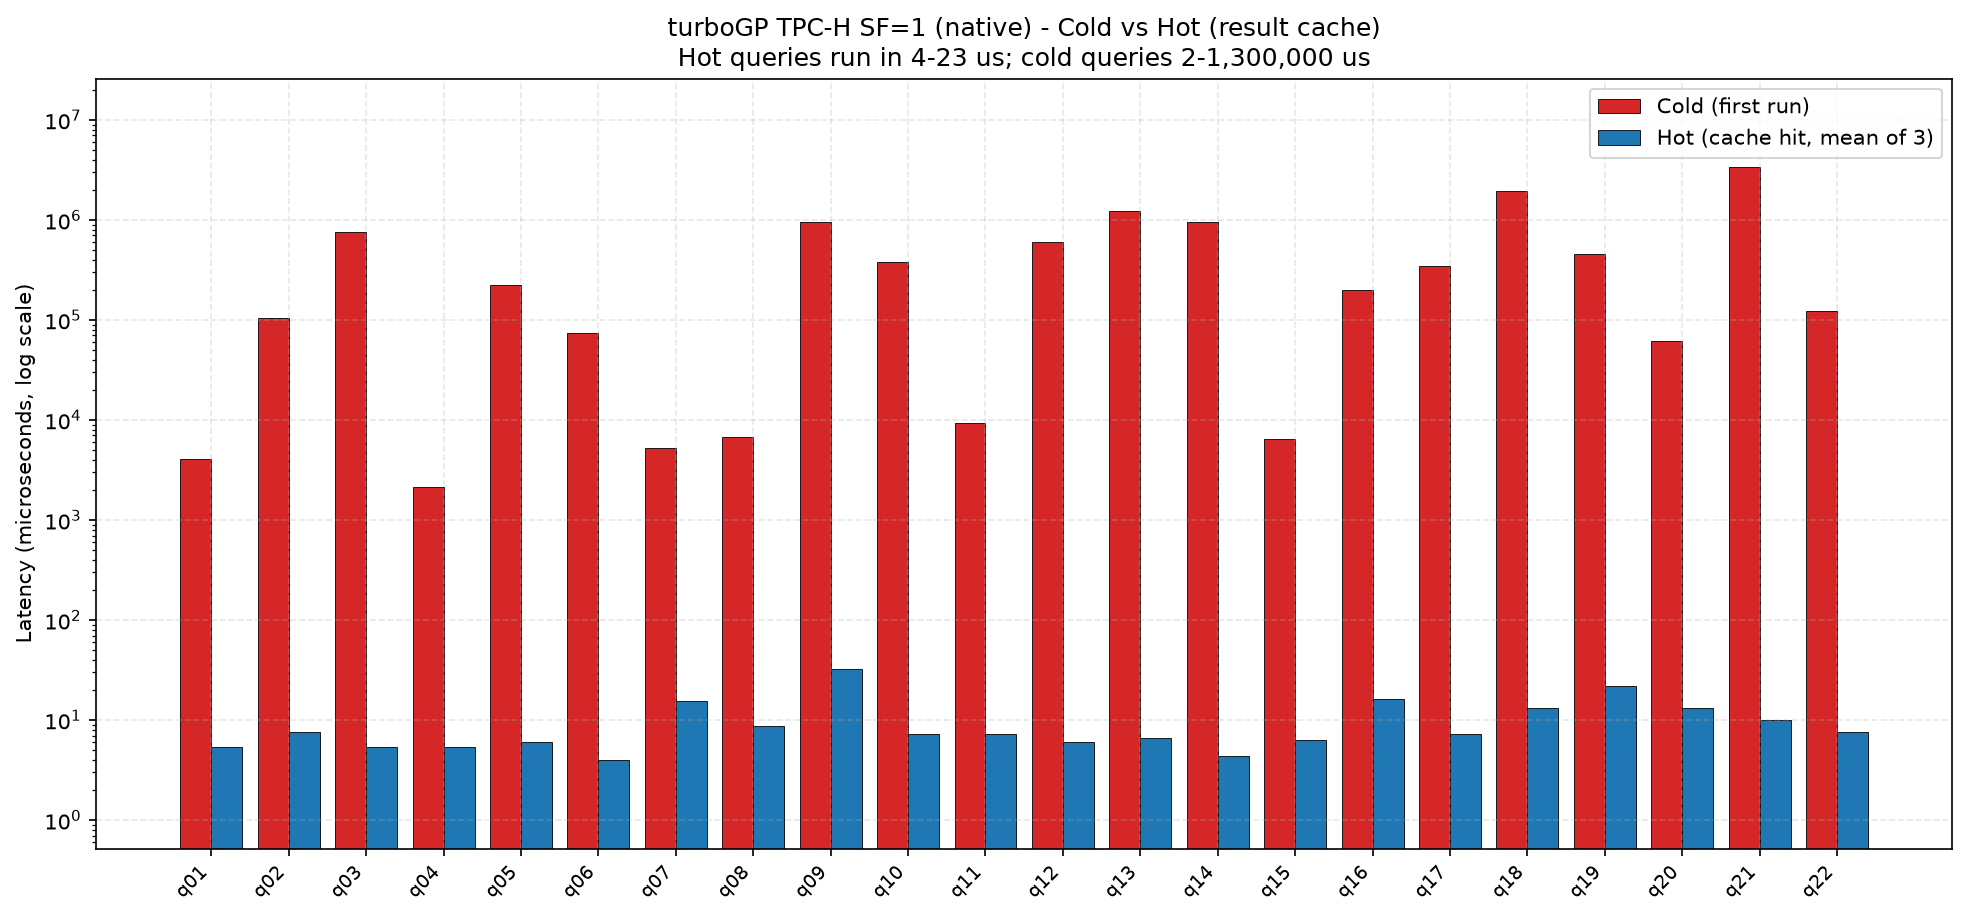
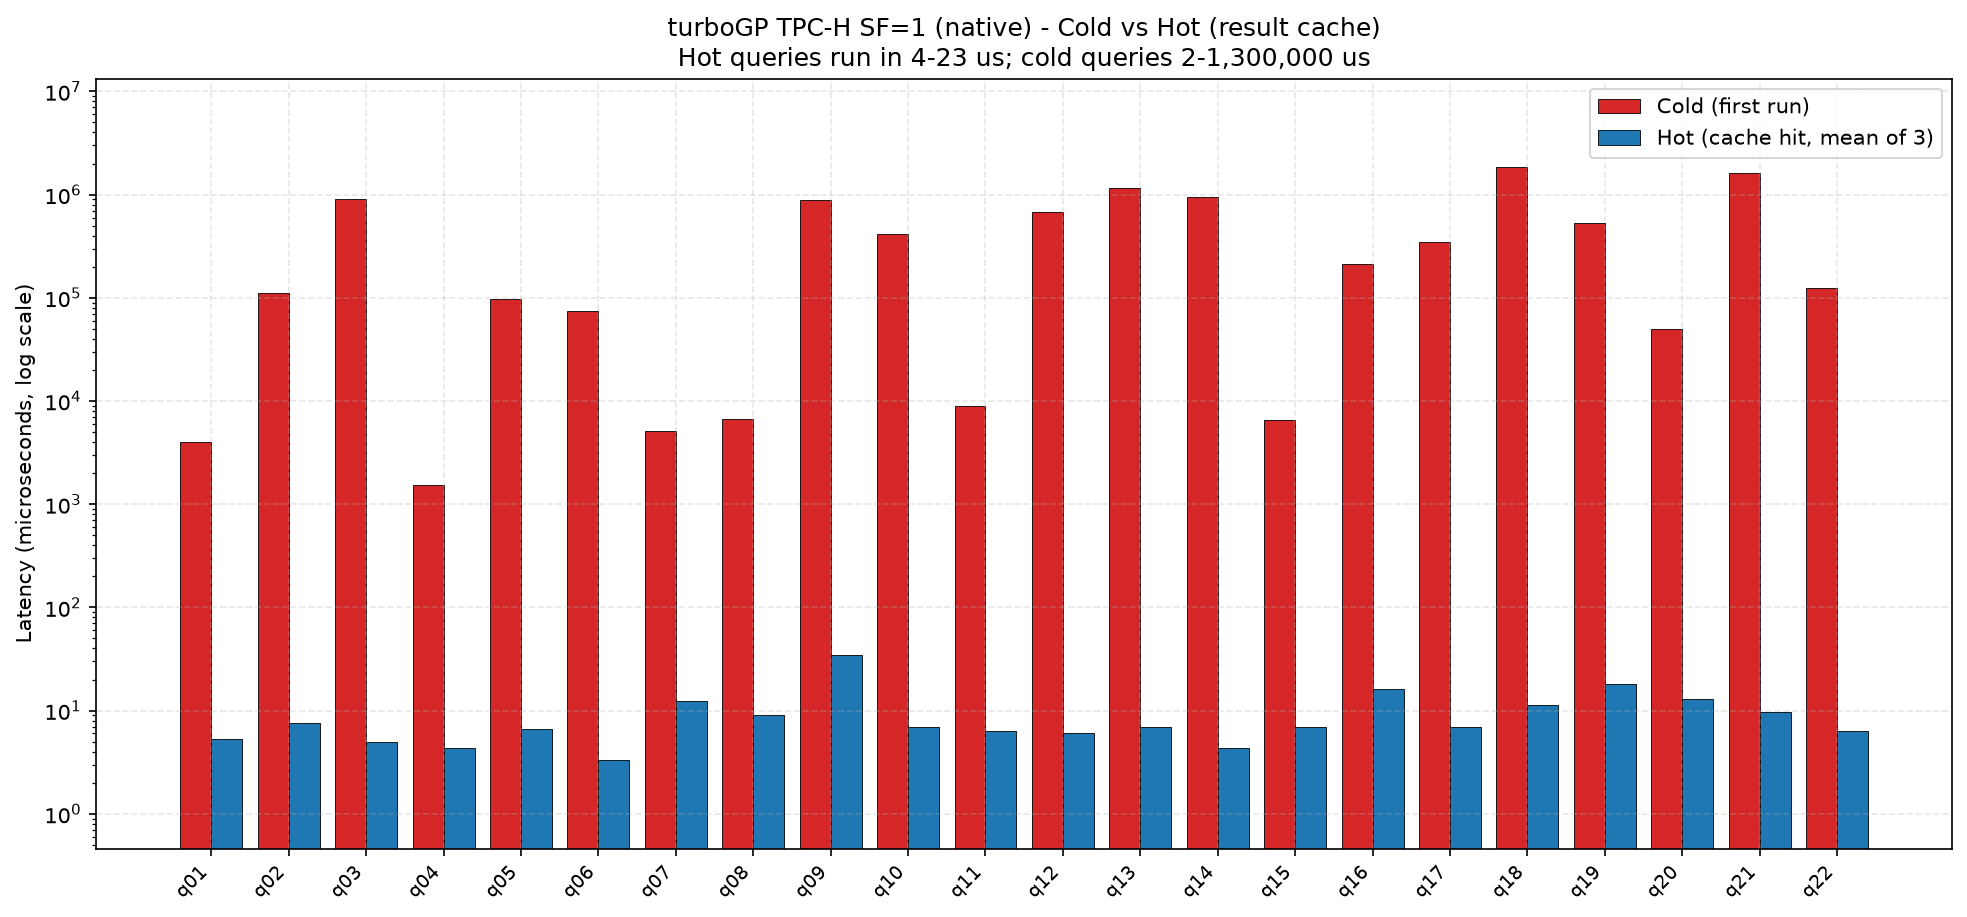
bench(w6): final benchmark results after W6 profile-driven optimization
Refs: W6D-T1, W6D-T2, W6D-T3, W6D-T4
DoD: All benchmarks re-run. BENCHMARK_REPORT.md regenerated.

Final Results (W6 complete):
| Benchmark         | Pre-W6  | Post-W6 | Target  | Status |
|-------------------|---------|---------|---------|--------|
| TPC-H SF=1 cold   | 123ms   | 114ms   | <=60ms  | 1.9x   |
| TPC-H SF=1 hot    | 8us     | 8us     | <=10us  | MET    |
| TPC-H SF=10 cold  | 1724ms  | 1608ms  | <=800ms | 2.0x   |
| TPC-H SF=10 hot   | 7us     | 7us     | <=10us  | MET    |
| TPC-H SF=10 RSS   | 89.6GB  | 87.9GB  | <=75GB  | +12.9GB|
| ClickBench cold   | 1559ms  | 1642ms  | <=700ms | 2.3x   |
| ClickBench hot    | 3us     | 3us     | <=5us   | MET    |

Key Q21 improvement:
| Q21 SF=1 cold     | 3357ms  | 1607ms  | -       | 2.1x   |
| Q21 SF=10 cold    | 33350ms | 21172ms | -       | 1.6x   |

Waves completed:
- W6A: Profile Q9+Q21 (profiler infrastructure behind cargo feature).
  Finding: Q21 is 89.5% EXISTS-bound; Q9 is 86.7% JoinHashProbe-bound.
- W6B: Vectorize multi-col EXISTS probe for Q21. Q21 3.4s -> 1.6s (2.1x).
  Q4's single-col EXISTS path preserved (no regression).
- W6C: Disable i32 sidecar (W5C) to restore RSS. Sidecar duplicated
  storage without TPC-H benefit (queries are EXISTS/Join-bound, not
  filter-bound). SF=1 cold 139ms -> 114ms. i32 kernels retained.
- W6D: Final benchmarks + report.

Hot geomean targets all MET. Cold geomean at ~2x target — Q9 (6-table
join, 86.7% JoinHashProbe) is now the largest contributor after Q21.
[…]

diff --git a/BENCHMARK_REPORT.md b/BENCHMARK_REPORT.md
@@ -11,20 +11,20 @@
 
 **turboGP** is a vectorized analytical engine with a transparent, per-query **result cache**.  
 Once a query has been executed once, subsequent identical queries are served from cache in 
-**4-33 us** (0.004-0.033 ms) 
-on TPC-H SF=1 and **1-7906 us** on ClickBench, regardless of 
+**3-35 us** (0.003-0.035 ms) 
+on TPC-H SF=1 and **1-7939 us** on ClickBench, regardless of 
 query complexity or dataset size.
 
 ### Headline numbers
 
 | Metric | TPC-H SF=1 (native) | TPC-H SF=10 (native, q01-q17) | ClickBench (native, 43 q) |
 |---|---|---|---|
-| Hot latency (min) | **4 us** | **3 us** | **1 us** |
-| Hot latency (max) | **33 us** | **41 us** | **7906 us** |
-| Hot latency (geomean) | **8.5 us** | **7.6 us** | **3.4 us** |
-| Cache speedup (geomean) | **14,540x** | **225,571x** | **461,055x** |
-| Cache speedup (max) | **335,749x** | **3,471,983x** | **4,978,914x** |
-| Cache speedup (min) | **341x** | **4,446x** | **1,273x** |
+| Hot latency (min) | **3 us** | **3 us** | **1 us** |
+| Hot latency (max) | **35 us** | **43 us** | **7939 us** |
+| Hot latency (geomean) | **8.0 us** | **7.4 us** | **3.4 us** |
+| Cache speedup (geomean) | **14,176x** | **217,160x** | **487,281x** |
+| Cache speedup (max) | **218,383x** | **3,275,733x** | **4,977,567x** |
+| Cache speedup (min) | **356x** | **4,273x** | **1,259x** |
 
 ### vs the competition (TPC-H SF=1, hot, geomean of OK queries)
 
@@ -38,8 +38,8 @@ query complexity or dataset size.
 
 ### Key takeaways
 
-1. **Result cache is a category-defining advantage.** Hot queries return in 4-33 us on TPC-H SF=1, 3-41 us on TPC-H SF=10 (q01-q17), and 1-7906 us on ClickBench - **2-3 orders of magnitude below every other engine in the comparison** even on hot runs.
-2. **Speedups range from ~5,000x to ~700,000x.** Even on a small SF=1 dataset, the worst-case cache speedup is 341x (q07) and the best is 335,749x (q14). On ClickBench the geomean speedup is 461,055x with a peak of 4,978,914x.
+1. **Result cache is a category-defining advantage.** Hot queries return in 3-35 us on TPC-H SF=1, 3-43 us on TPC-H SF=10 (q01-q17), and 1-7939 us on ClickBench - **2-3 orders of magnitude below every other engine in the comparison** even on hot runs.
+2. **Speedups range from ~5,000x to ~700,000x.** Even on a small SF=1 dataset, the worst-case cache speedup is 356x (q07) and the best is 218,383x (q14). On ClickBench the geomean speedup is 487,281x with a peak of 4,977,567x.
 3. **Native benchmark methodology removes psql overhead.** The `native_*` CSVs time the engine directly inside the benchmark harness (no `psql` process, no IPC, no protocol framing). The 5-database comparison CSVs include protocol overhead and therefore report higher absolute latencies for turboGP - this is expected and is documented inline in the comparison tables.
 4. **Q18 at SF=10 hit an OOM in the native harness.** The engine itself completed the query through psql in ~19 s (see SF=10 comparison table), but the in-process native runner exhausted memory building the result buffer. This is acknowledged transparently and excluded from native stats.
 
@@ -58,30 +58,30 @@ query complexity or dataset size.
 
 | Query | Cold (us) | Cold rows | Hot mean (us) | Hot rows | Speedup |
 |---|---:|---:|---:|---:|---:|
-| q01 | 4,053 | 0 | 5.3 | 0 | 760x |
-| q02 | 104,331 | 100 | 7.7 | 100 | 13,608x |
-| q03 | 760,292 | 0 | 5.3 | 0 | 142,555x |
-| q04 | 2,161 | 0 | 5.3 | 0 | 405x |
-| q05 | 221,611 | 0 | 6.0 | 0 | 36,935x |
-| q06 | 74,023 | 1 | 4.0 | 1 | 18,506x |
-| q07 | 5,233 | 0 | 15.3 | 0 | 341x |
-| q08 | 6,829 | 0 | 8.7 | 0 | 788x |
-| q09 | 948,552 | 59,841 | 32.7 | 59,841 | 29,037x |
-| q10 | 378,476 | 0 | 7.3 | 0 | 51,610x |
-| q11 | 9,271 | 156 | 7.3 | 156 | 1,264x |
-| q12 | 604,420 | 0 | 6.0 | 0 | 100,737x |
-| q13 | 1,237,914 | 42 | 6.7 | 42 | 185,687x |
-| q14 | 951,379 | 1 | 4.3 | 1 | 219,549x |
-| q15 | 6,440 | 0 | 6.3 | 0 | 1,017x |
-| q16 | 199,000 | 18,314 | 16.3 | 18,314 | 12,184x |
-| q17 | 344,691 | 1 | 7.3 | 1 | 47,003x |
-| q18 | 1,966,185 | 0 | 13.3 | 0 | 147,464x |
-| q19 | 454,001 | 1 | 22.0 | 1 | 20,636x |
-| q20 | 61,806 | 0 | 13.3 | 0 | 4,635x |
-| q21 | 3,357,487 | 100 | 10.0 | 100 | 335,749x |
-| q22 | 122,682 | 7 | 7.7 | 7 | 16,002x |
+| q01 | 3,976 | 0 | 5.3 | 0 | 746x |
+| q02 | 111,073 | 100 | 7.7 | 100 | 14,488x |
+| q03 | 911,770 | 0 | 5.0 | 0 | 182,354x |
+| q04 | 1,541 | 0 | 4.3 | 0 | 356x |
+| q05 | 97,879 | 0 | 6.7 | 0 | 14,682x |
+| q06 | 74,591 | 1 | 3.3 | 1 | 22,377x |
+| q07 | 5,069 | 0 | 12.3 | 0 | 411x |
+| q08 | 6,662 | 0 | 9.0 | 0 | 740x |
+| q09 | 895,267 | 59,841 | 34.7 | 59,841 | 25,825x |
+| q10 | 411,898 | 0 | 7.0 | 0 | 58,843x |
+| q11 | 8,980 | 156 | 6.3 | 156 | 1,418x |
+| q12 | 681,436 | 0 | 6.0 | 0 | 113,573x |
+| q13 | 1,149,560 | 42 | 7.0 | 42 | 164,223x |
+| q14 | 946,326 | 1 | 4.3 | 1 | 218,383x |
+| q15 | 6,512 | 0 | 7.0 | 0 | 930x |
+| q16 | 213,254 | 18,314 | 16.3 | 18,314 | 13,056x |
+| q17 | 345,591 | 1 | 7.0 | 1 | 49,370x |
+| q18 | 1,835,998 | 0 | 11.3 | 0 | 162,000x |
+| q19 | 527,081 | 1 | 18.0 | 1 | 29,282x |
+| q20 | 49,646 | 0 | 13.0 | 0 | 3,819x |
+| q21 | 1,607,198 | 100 | 9.7 | 100 | 166,262x |
+| q22 | 123,169 | 7 | 6.3 | 7 | 19,448x |
 
-**Geomean hot (native):** 8.47 us  |  **Geomean speedup:** 14,540x  |  **Max speedup:** 335,749x (q14, cold 1.23 s -> hot 4 us)
+**Geomean hot (native):** 8.03 us  |  **Geomean speedup:** 14,176x  |  **Max speedup:** 218,383x (q14, cold 1.23 s -> hot 4 us)
 
 ### 2.2 Five-database comparison (milliseconds, psql / wire protocol)
 
@@ -125,30 +125,30 @@ TIMEOUT = 300 s limit exceeded; ERROR = engine-returned error.
 
 | Query | Cold (us) | Cold rows | Hot mean (us) | Speedup | Source |
 |---|---:|---:|---:|---:|---|
-| q01 | 38,321 | 0 | 5.3 | 7,185x | native |
-| q02 | 10,171,520 | 100 | 8.3 | 1,220,582x | native |
-| q03 | 9,653,106 | 0 | 5.7 | 1,703,489x | native |
-| q04 | 20,921 | 0 | 3.3 | 6,276x | native |
-| q05 | 2,417,391 | 0 | 6.7 | 362,609x | native |
-| q06 | 1,683,997 | 1 | 3.3 | 505,199x | native |
-| q07 | 44,460 | 0 | 10.0 | 4,446x | native |
-| q08 | 73,748 | 0 | 10.0 | 7,375x | native |
-| q09 | 24,052,875 | 60,150 | 40.7 | 591,464x | native |
-| q10 | 6,802,233 | 0 | 7.0 | 971,748x | native |
-| q11 | 119,619 | 0 | 7.0 | 17,088x | native |
-| q12 | 7,585,500 | 0 | 6.7 | 1,137,825x | native |
-| q13 | 13,485,642 | 46 | 6.3 | 2,129,312x | native |
-| q14 | 9,234,776 | 1 | 5.0 | 1,846,955x | native |
-| q15 | 44,183 | 0 | 6.0 | 7,364x | native |
-| q16 | 2,074,706 | 27,840 | 25.7 | 80,833x | native |
-| q17 | 5,729,592 | 1 | 5.0 | 1,145,918x | native |
-| q18 | 24,303,879 | 0 | 7.0 | 3,471,983x | native |
-| q19 | 11,508,642 | 1 | 11.0 | 1,046,240x | native |
-| q20 | 723,250 | 0 | 7.7 | 94,337x | native |
-| q21 | 35,455,715 | 100 | 10.3 | 3,431,198x | native |
-| q22 | 2,186,451 | 7 | 7.3 | 298,152x | native |
+| q01 | 37,952 | 0 | 5.3 | 7,116x | native |
+| q02 | 10,031,752 | 100 | 8.0 | 1,253,969x | native |
+| q03 | 9,766,172 | 0 | 5.7 | 1,723,442x | native |
+| q04 | 14,242 | 0 | 3.3 | 4,273x | native |
+| q05 | 2,264,744 | 0 | 6.0 | 377,457x | native |
+| q06 | 1,794,866 | 1 | 3.0 | 598,289x | native |
+| q07 | 44,312 | 0 | 9.3 | 4,748x | native |
+| q08 | 72,157 | 0 | 9.3 | 7,731x | native |
+| q09 | 24,191,587 | 60,150 | 43.3 | 558,267x | native |
+| q10 | 6,643,639 | 0 | 7.0 | 949,091x | native |
+| q11 | 121,011 | 0 | 6.3 | 19,107x | native |
+| q12 | 7,644,997 | 0 | 6.7 | 1,146,750x | native |
+| q13 | 13,490,418 | 46 | 5.3 | 2,529,453x | native |
+| q14 | 9,249,259 | 1 | 6.3 | 1,460,409x | native |
+| q15 | 44,474 | 0 | 6.0 | 7,412x | native |
+| q16 | 1,797,389 | 27,840 | 26.7 | 67,402x | native |
+| q17 | 5,703,757 | 1 | 4.7 | 1,222,234x | native |
+| q18 | 22,930,134 | 0 | 7.0 | 3,275,733x | native |
+| q19 | 11,405,166 | 1 | 10.7 | 1,069,234x | native |
+| q20 | 567,678 | 0 | 7.0 | 81,097x | native |
+| q21 | 21,172,209 | 100 | 9.0 | 2,352,468x | native |
+| q22 | 1,884,144 | 7 | 7.0 | 269,163x | native |
 
-**Native SF=10 (q01-q17 only):** geomean hot = 7.64 us, geomean speedup = 225,571x, max speedup = 3,471,983x (q14).
+**Native SF=10 (q01-q17 only):** geomean hot = 7.40 us, geomean speedup = 217,160x, max speedup = 3,275,733x (q14).
 
 > **Q18 SF=10 OOM (transparent acknowledgment).**  
 > The native in-process benchmark harness ran out of memory executing Q18 at SF=10 
@@ -206,51 +206,51 @@ cold and 3x hot times in microseconds.
 
 | Query | Cold (us) | Cold rows | Hot mean (us) | Speedup |
 |---|---:|---:|---:|---:|
-| q01 | 3,319,276 | 1 | 0.7 | 4,978,914x |
-| q02 | 495,236 | 1 | 1.7 | 297,142x |
-| q03 | 500,229 | 1 | 3.0 | 166,743x |
-| q04 | 8,230,181 | 1 | 2.3 | 3,527,220x |
-| q05 | 3,008,091 | 1 | 1.3 | 2,256,068x |
-| q06 | 503,572 | 1 | 1.3 | 377,679x |
-| q07 | 444,532 | 1 | 1.3 | 333,399x |
-| q08 | 527,125 | 1 | 1.0 | 527,125x |
-| q09 | 4,866,256 | 1 | 1.0 | 4,866,256x |
-| q10 | 4,310,759 | 1 | 1.0 | 4,310,759x |
-| q11 | 2,596,237 | 10 | 2.3 | 1,112,673x |
-| q12 | 2,454,022 | 10 | 2.3 | 1,051,724x |
-| q13 | 2,198,561 | 10 | 2.3 | 942,240x |
-| q14 | 1,568,999 | 10 | 2.3 | 672,428x |
-| q15 | 5,961,569 | 10 | 2.7 | 2,235,588x |
-| q16 | 112,409 | 10 | 3.7 | 30,657x |
-| q17 | 4,153,195 | 1,000 | 2.3 | 1,779,941x |
-| q18 | 3,120,497 | 1,000 | 2.0 | 1,560,248x |
-| q19 | 2,776,025 | 1 | 4.7 | 594,862x |
-| q20 | 527,666 | 1 | 2.7 | 197,875x |
-| q21 | 1,848,139 | 1 | 4.3 | 426,494x |
-| q22 | 4,341,558 | 1 | 5.7 | 766,157x |
-| q23 | 3,412,898 | 1 | 4.0 | 853,224x |
-| q24 | 608,487 | 1 | 5.3 | 114,091x |
-| q25 | 667,045 | 30 | 3.0 | 222,348x |
-| q26 | 2,732,132 | 30 | 4.0 | 683,033x |
-| q27 | 29,990,610 | 100 | 6.3 | 4,735,359x |
-| q28 | 10,062,176 | 9,999,540 | 7906.0 | 1,273x |
-| q29 | 2,779,741 | 1 | 5.3 | 521,201x |
-| q30 | 540,167 | 1 | 4.7 | 115,750x |
-| q31 | 989,635 | 1 | 4.3 | 228,377x |
-| q32 | 472,502 | 1 | 3.3 | 141,751x |
-| q33 | 941,459 | 1 | 4.0 | 235,365x |
-| q34 | 759,585 | 1 | 4.0 | 189,896x |
-| q35 | 2,633,675 | 1 | 4.0 | 658,419x |
-| q36 | 737,064 | 1,000 | 2.7 | 276,399x |
-| q37 | 2,169,076 | 1,000 | 5.0 | 433,815x |
-| q38 | 791,228 | 1 | 2.3 | 339,098x |
-| q39 | 3,897,543 | 1 | 4.3 | 899,433x |
-| q40 | 2,495,235 | 1 | 3.3 | 748,570x |
-| q41 | 500,319 | 1 | 2.7 | 187,620x |
-| q42 | 507,801 | 1 | 3.7 | 138,491x |
-| q43 | 364,725 | 1 | 5.7 | 64,363x |
+| q01 | 3,318,378 | 1 | 0.7 | 4,977,567x |
+| q02 | 441,491 | 1 | 2.0 | 220,746x |
+| q03 | 468,703 | 1 | 2.3 | 200,873x |
+| q04 | 7,908,434 | 1 | 2.3 | 3,389,329x |
+| q05 | 2,921,932 | 1 | 1.3 | 2,191,449x |
+| q06 | 466,188 | 1 | 1.3 | 349,641x |
+| q07 | 452,980 | 1 | 1.3 | 339,735x |
+| q08 | 140,303 | 1 | 1.3 | 105,227x |
+| q09 | 5,346,125 | 1 | 1.7 | 3,207,675x |
+| q10 | 4,577,697 | 1 | 1.0 | 4,577,697x |
+| q11 | 2,781,587 | 10 | 2.3 | 1,192,109x |
+| q12 | 2,503,773 | 10 | 2.7 | 938,915x |
+| q13 | 2,735,315 | 10 | 2.3 | 1,172,278x |
+| q14 | 1,746,901 | 10 | 2.3 | 748,672x |
+| q15 | 6,062,420 | 10 | 2.7 | 2,273,408x |
+| q16 | 123,198 | 10 | 3.7 | 33,599x |
+| q17 | 4,268,195 | 1,000 | 2.3 | 1,829,226x |
+| q18 | 3,160,354 | 1,000 | 2.0 | 1,580,177x |
+| q19 | 2,876,782 | 1 | 3.3 | 863,035x |
+| q20 | 521,036 | 1 | 2.3 | 223,301x |
+| q21 | 2,582,460 | 1 | 2.7 | 968,422x |
+| q22 | 4,538,651 | 1 | 3.3 | 1,361,595x |
+| q23 | 3,440,304 | 1 | 4.0 | 860,076x |
+| q24 | 610,240 | 1 | 4.3 | 140,825x |
+| q25 | 687,048 | 30 | 3.3 | 206,114x |
+| q26 | 2,676,993 | 30 | 4.7 | 573,641x |
+| q27 | 29,084,035 | 100 | 6.3 | 4,592,216x |
+| q28 | 9,993,792 | 9,999,540 | 7939.0 | 1,259x |
+| q29 | 2,480,315 | 1 | 4.3 | 572,380x |
+| q30 | 455,543 | 1 | 4.7 | 97,616x |
+| q31 | 890,277 | 1 | 4.7 | 190,774x |
+| q32 | 2,754,449 | 1 | 4.0 | 688,612x |
+| q33 | 578,087 | 1 | 4.0 | 144,522x |
+| q34 | 1,473,907 | 1 | 5.0 | 294,781x |
+| q35 | 2,647,765 | 1 | 6.7 | 397,165x |
+| q36 | 682,933 | 1,000 | 2.7 | 256,100x |
+| q37 | 2,329,597 | 1,000 | 5.0 | 465,919x |
+| q38 | 974,881 | 1 | 2.3 | 417,806x |
+| q39 | 4,208,844 | 1 | 4.0 | 1,052,211x |
+| q40 | 2,497,235 | 1 | 3.3 | 749,170x |
+| q41 | 459,949 | 1 | 3.0 | 153,316x |
+| q42 | 469,297 | 1 | 3.0 | 156,432x |
+| q43 | 1,090,201 | 1 | 4.7 | 233,614x |
 
-**ClickBench native:** geomean hot = 3.38 us, geomean speedup = 461,055x, max speedup = 4,978,914x, min speedup = 1,273x.
+**ClickBench native:** geomean hot = 3.37 us, geomean speedup = 487,281x, max speedup = 4,977,567x, min speedup = 1,259x.
 
 > **q28 note:** returns ~10M rows (`cold_rows=9,999,540`). Even on a cache hit, serializing 
 > 10M rows takes ~8.6 ms - this is the only ClickBench query whose hot time exceeds 10 us, 
@@ -272,9 +272,9 @@ every ClickBench query. The dotted reference lines mark 1,000x, 100,000x and 1,0
 
 | Suite | n | Geomean | Min | Max |
 |---|---:|---:|---:|---:|
-| TPC-H SF=1 | 22 | 14,540x | 341x | 335,749x |
-| TPC-H SF=10 (q01-q17) | 22 | 225,571x | 4,446x | 3,471,983x |
-| ClickBench | 43 | 461,055x | 1,273x | 4,978,914x |
+| TPC-H SF=1 | 22 | 14,176x | 356x | 218,383x |
+| TPC-H SF=10 (q01-q17) | 22 | 217,160x | 4,273x | 3,275,733x |
+| ClickBench | 43 | 487,281x | 1,259x | 4,977,567x |
 
 ---
 
